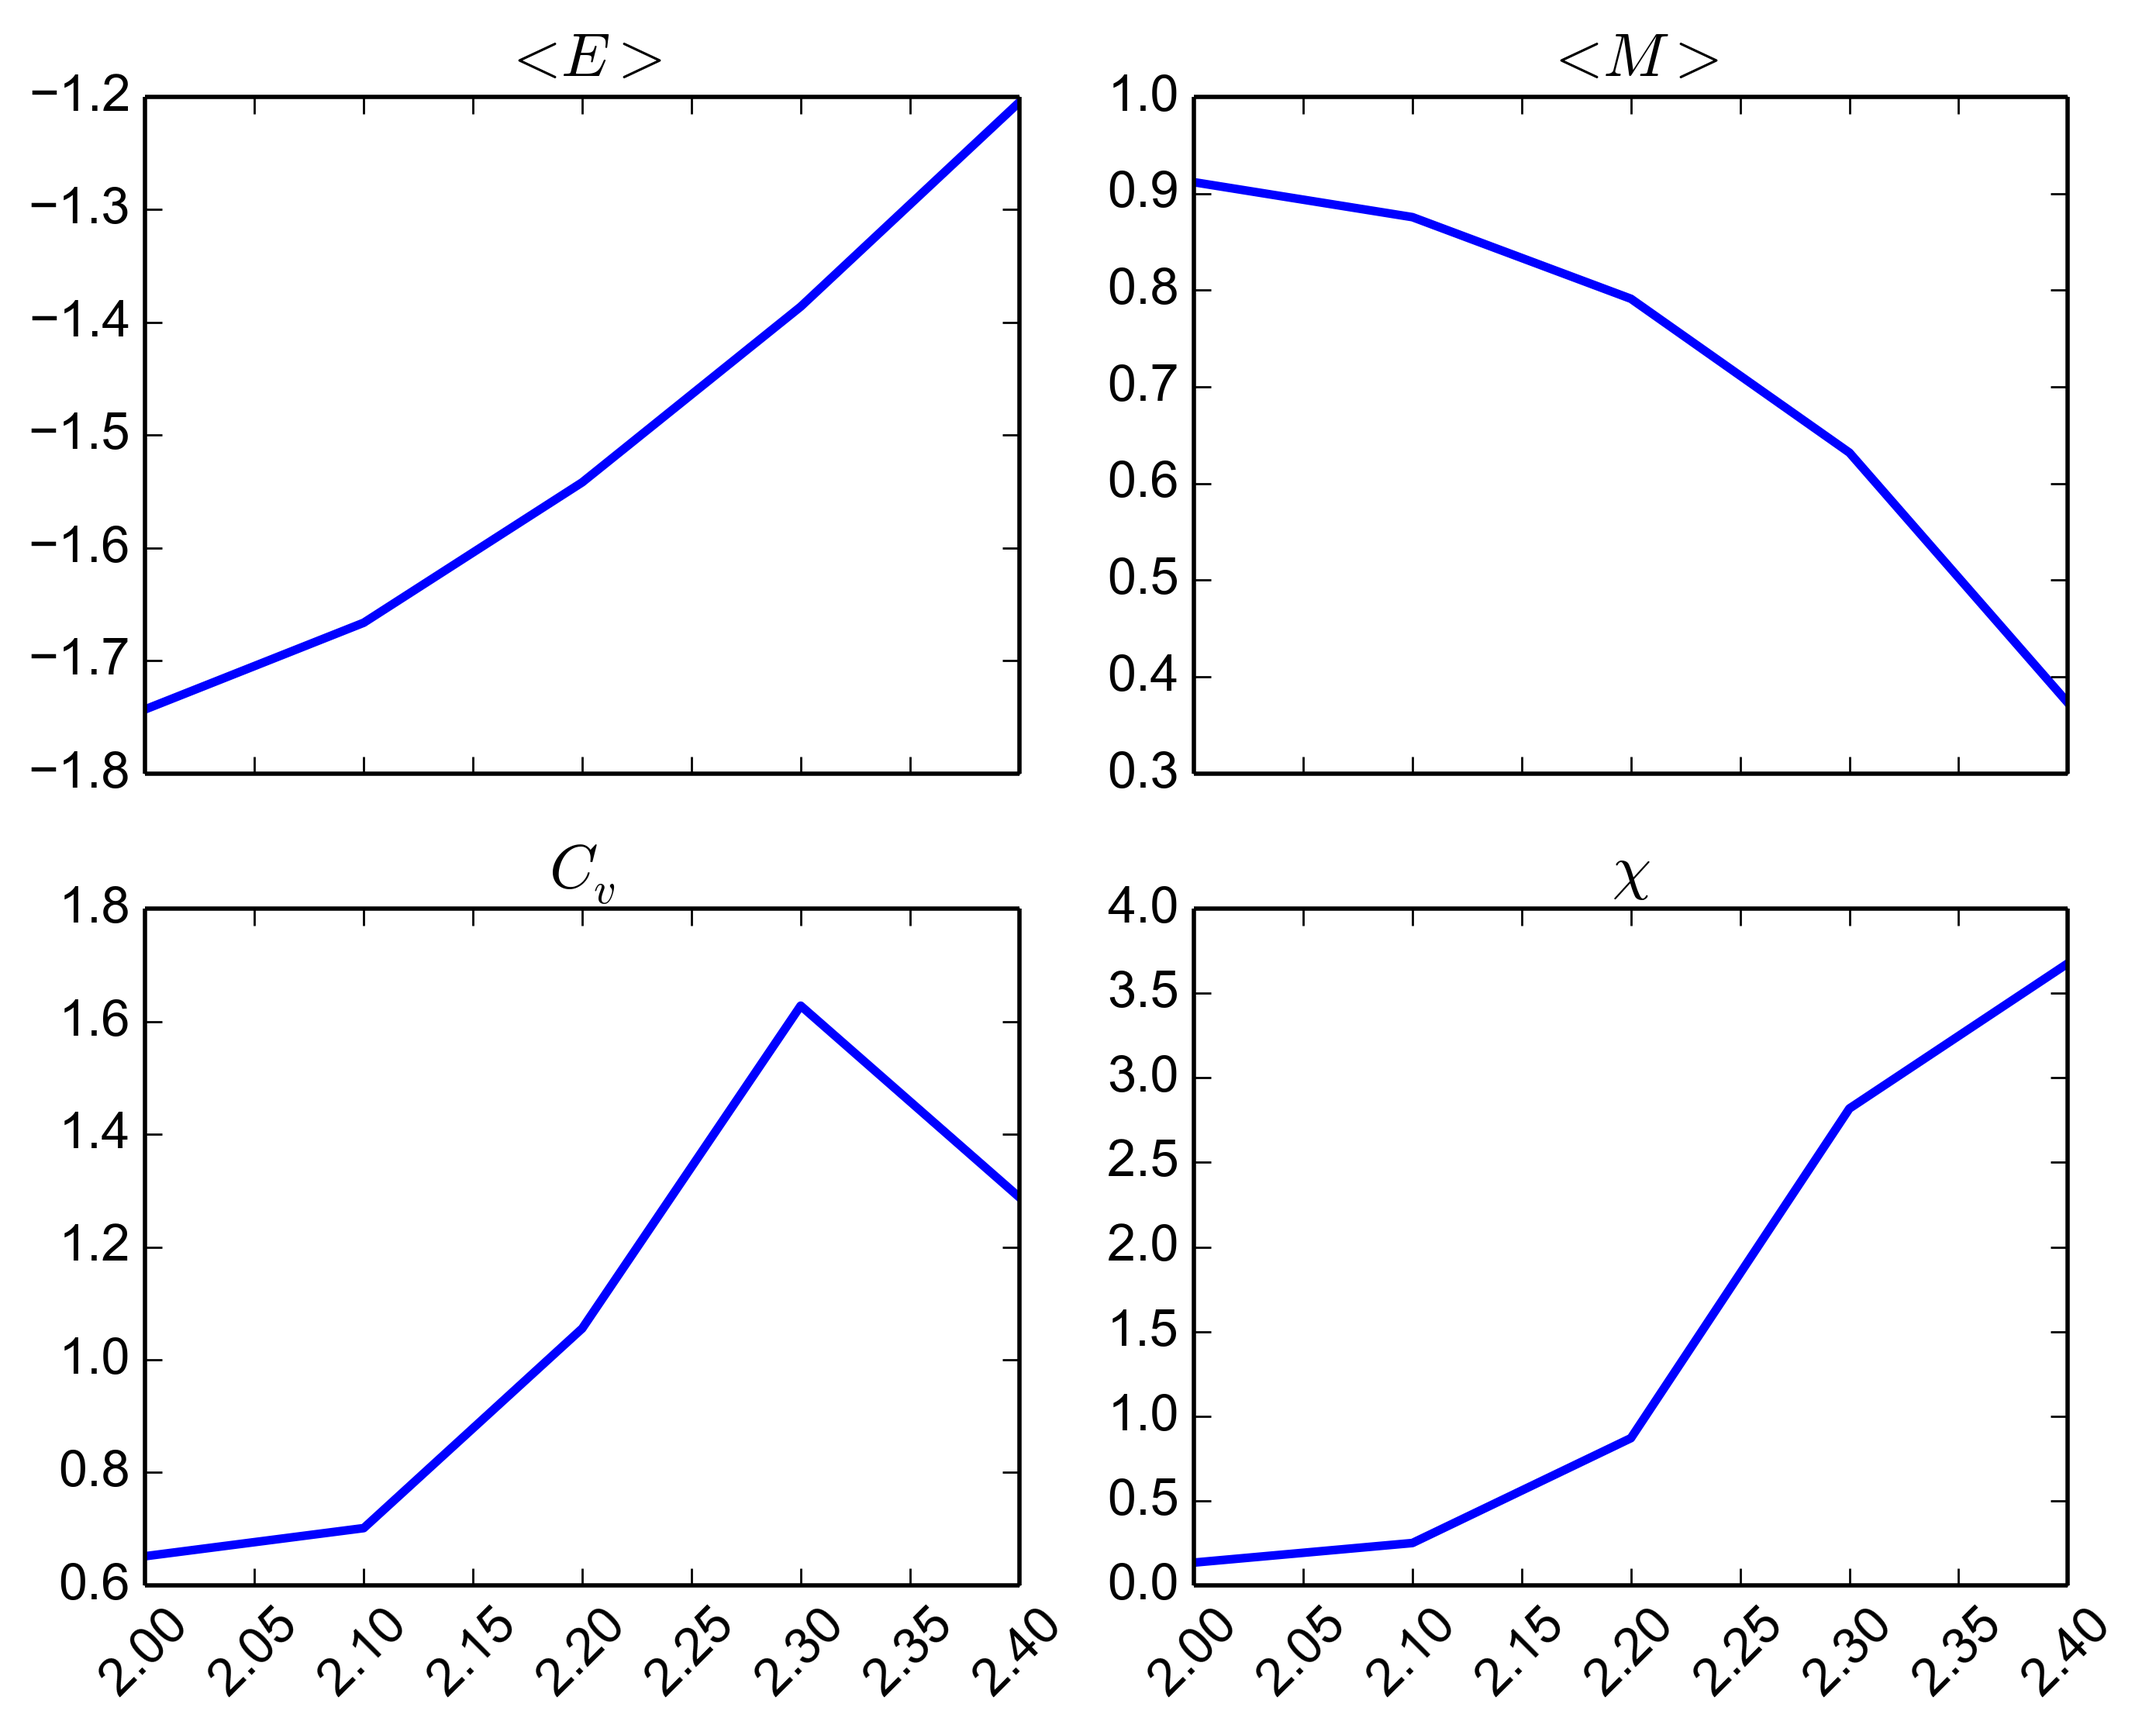
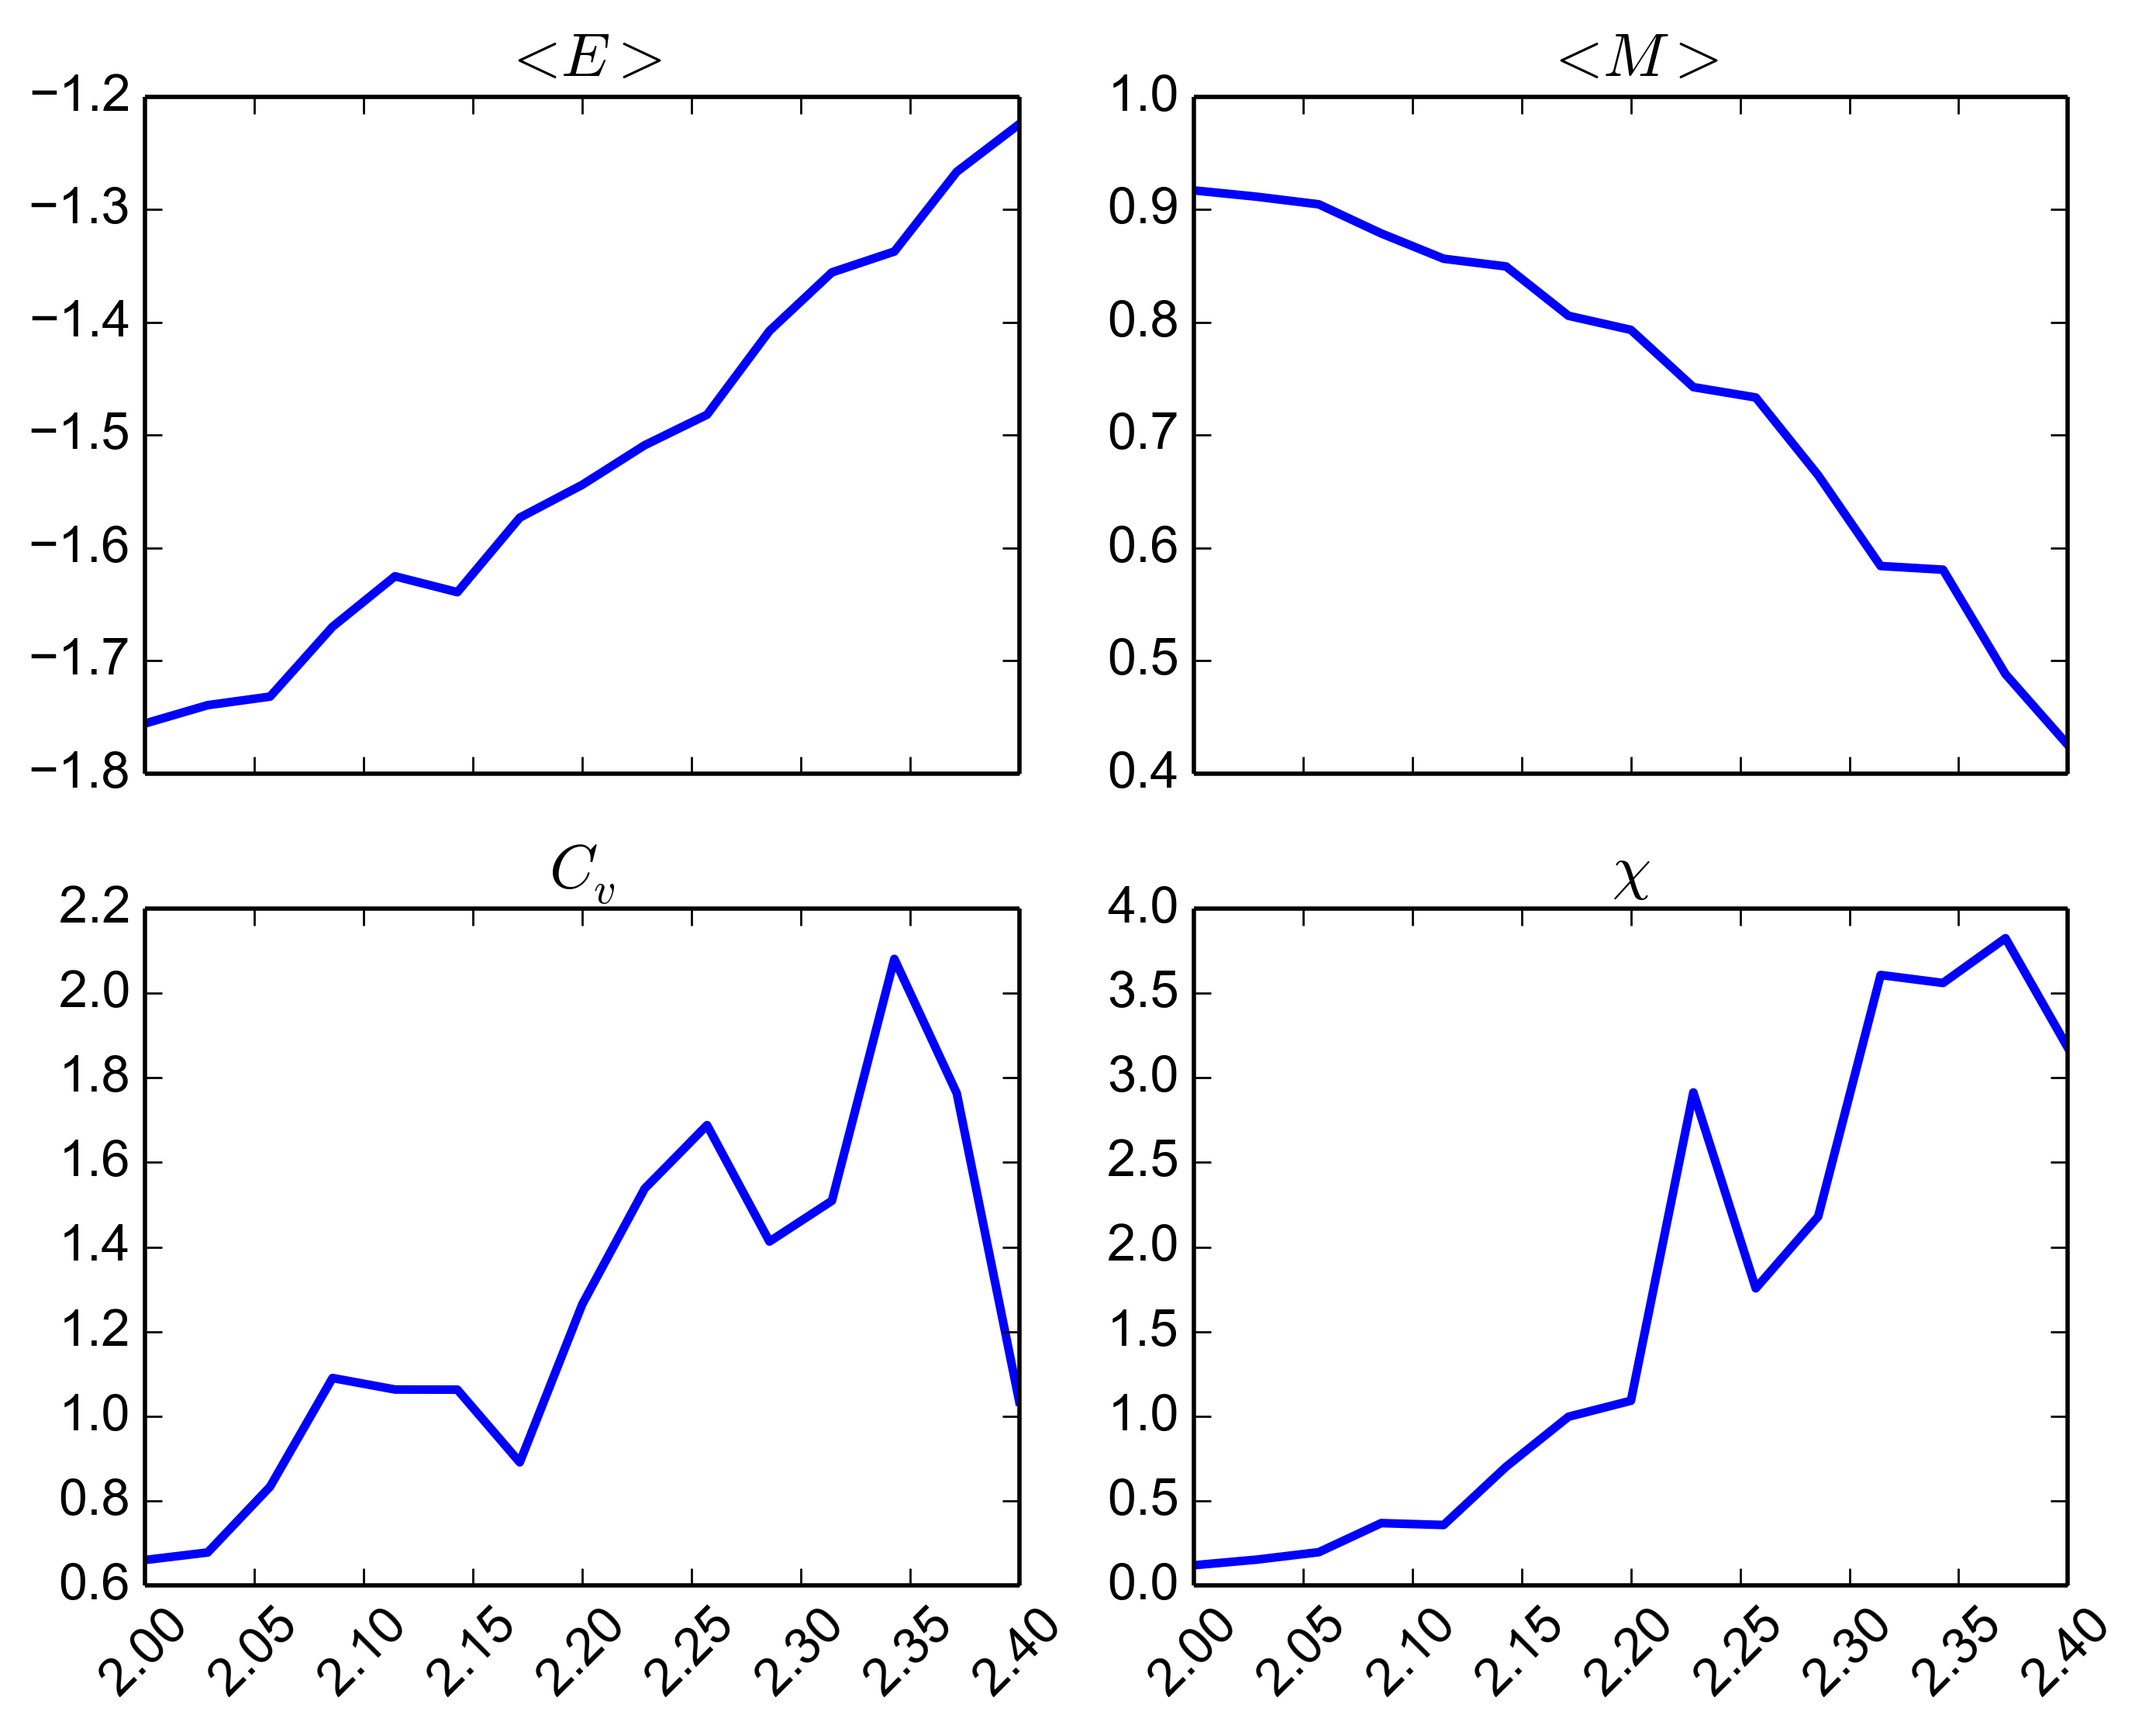
nice pics

diff --git a/Project 4/report/report.tex b/Project 4/report/report.tex
@@ -549,7 +549,7 @@ The properties for the different
 
 \begin{figure}
 \centering
-\includegraphics[width=\figurewidth]{pics/e40.png}
+\includegraphics[width=\figurewidth]{pics/pics4report/e40.png}
 \caption{Different properties around the critical temperature for 
 a 40x40-lattice}
 \label{fig:e40}
@@ -557,7 +557,7 @@ a 40x40-lattice}
 
 \begin{figure}
 \centering
-\includegraphics[width=\figurewidth]{pics/e60.png}
+\includegraphics[width=\figurewidth]{pics/pics4report/e60.png}
 \caption{Different properties around the critical temperature for 
 a 60x60-lattice}
 \label{fig:e60}
@@ -565,19 +565,12 @@ a 60x60-lattice}
 
 \begin{figure}
 \centering
-\includegraphics[width=\figurewidth]{pics/e80.png}
+\includegraphics[width=\figurewidth]{pics/pics4report/e80.png}
 \caption{Different properties around the critical temperature for 
 a 80x80-lattice}
 \label{fig:e80}
 \end{figure}
 
-\begin{figure}
-\centering
-\includegraphics[width=\figurewidth]{pics/e100.png}
-\caption{Different properties around the critical temperature for 
-a 100x100-lattice}
-\label{fig:e100}
-\end{figure}
 
 
 \subsection{Reproduction of results}

diff --git a/Project 4/plot_project4.py b/Project 4/plot_project4.py
@@ -186,10 +186,7 @@ if (False):
   plt.show()
 
 #e) Critical temperature
-<<<<<<< HEAD
-=======
 
->>>>>>> e427841bb26afac4f8a48b647ea1046e3845b46c
 for dim in [20, 40, 60, 80, 100]:
   command = ['./project4', 'e', str(dim)]
 
@@ -241,8 +238,5 @@ for dim in [20, 40, 60, 80, 100]:
   pic_filename = os.path.join(saveloc, 'e{}.png'.format(dim))
   plt.savefig(pic_filename,dpi=400,bbox_inches='tight')
   plt.show()
-<<<<<<< HEAD
 
-=======
->>>>>>> e427841bb26afac4f8a48b647ea1046e3845b46c
   

diff --git a/Project 4/src/main.cpp b/Project 4/src/main.cpp
@@ -140,7 +140,7 @@ int main(const int argc, const char **argv)
   if (argc>2 && !std::strcmp(argv[1], "e")){
     const int dim = std::atoi(argv[2]);
     
-    const int Ntemps = 5;
+    const int Ntemps = 15;
     
     
     const int Ntherm = 50*dim*dim; // every particle gets 50 tries to flip
